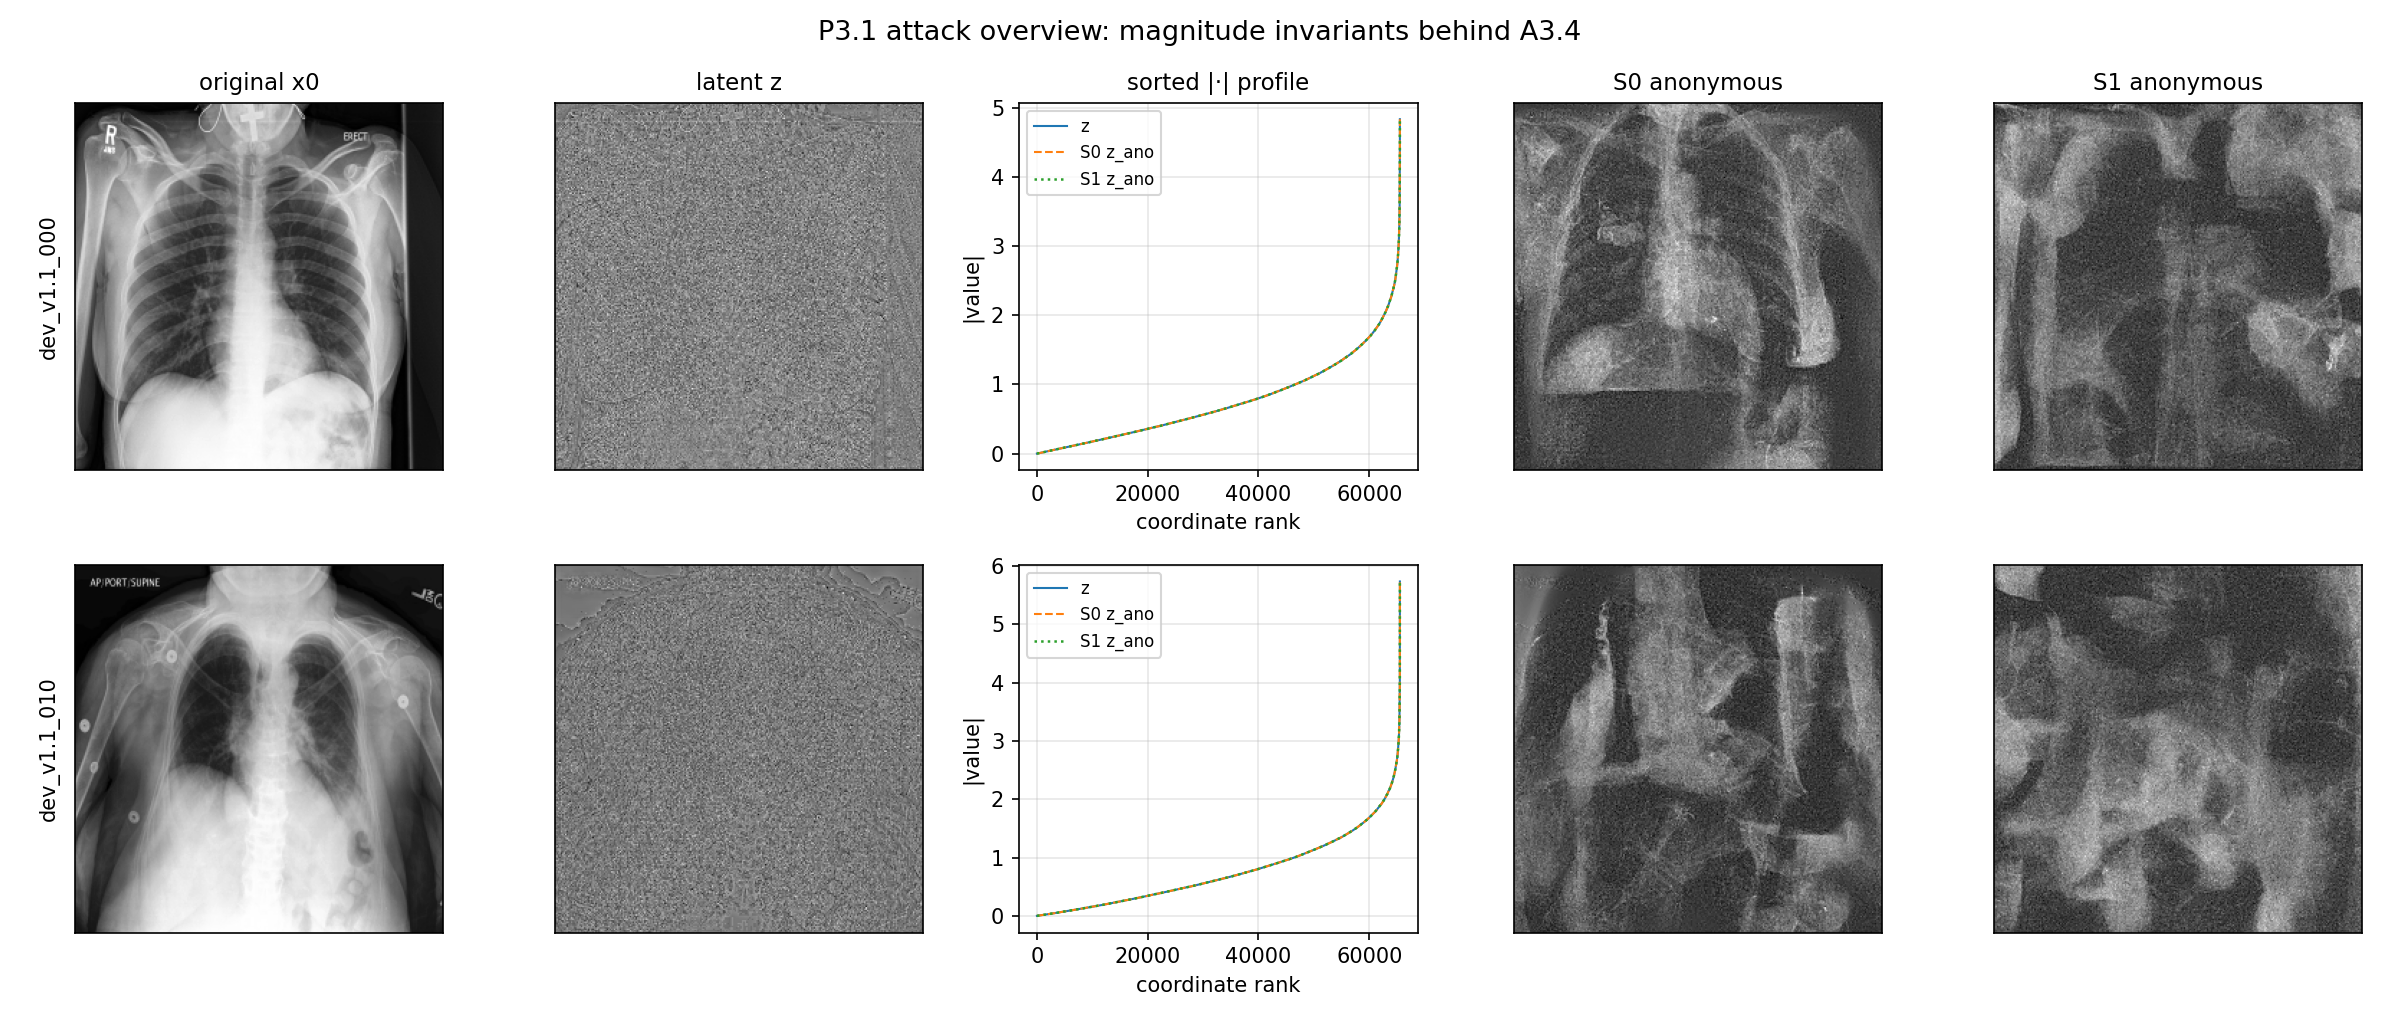
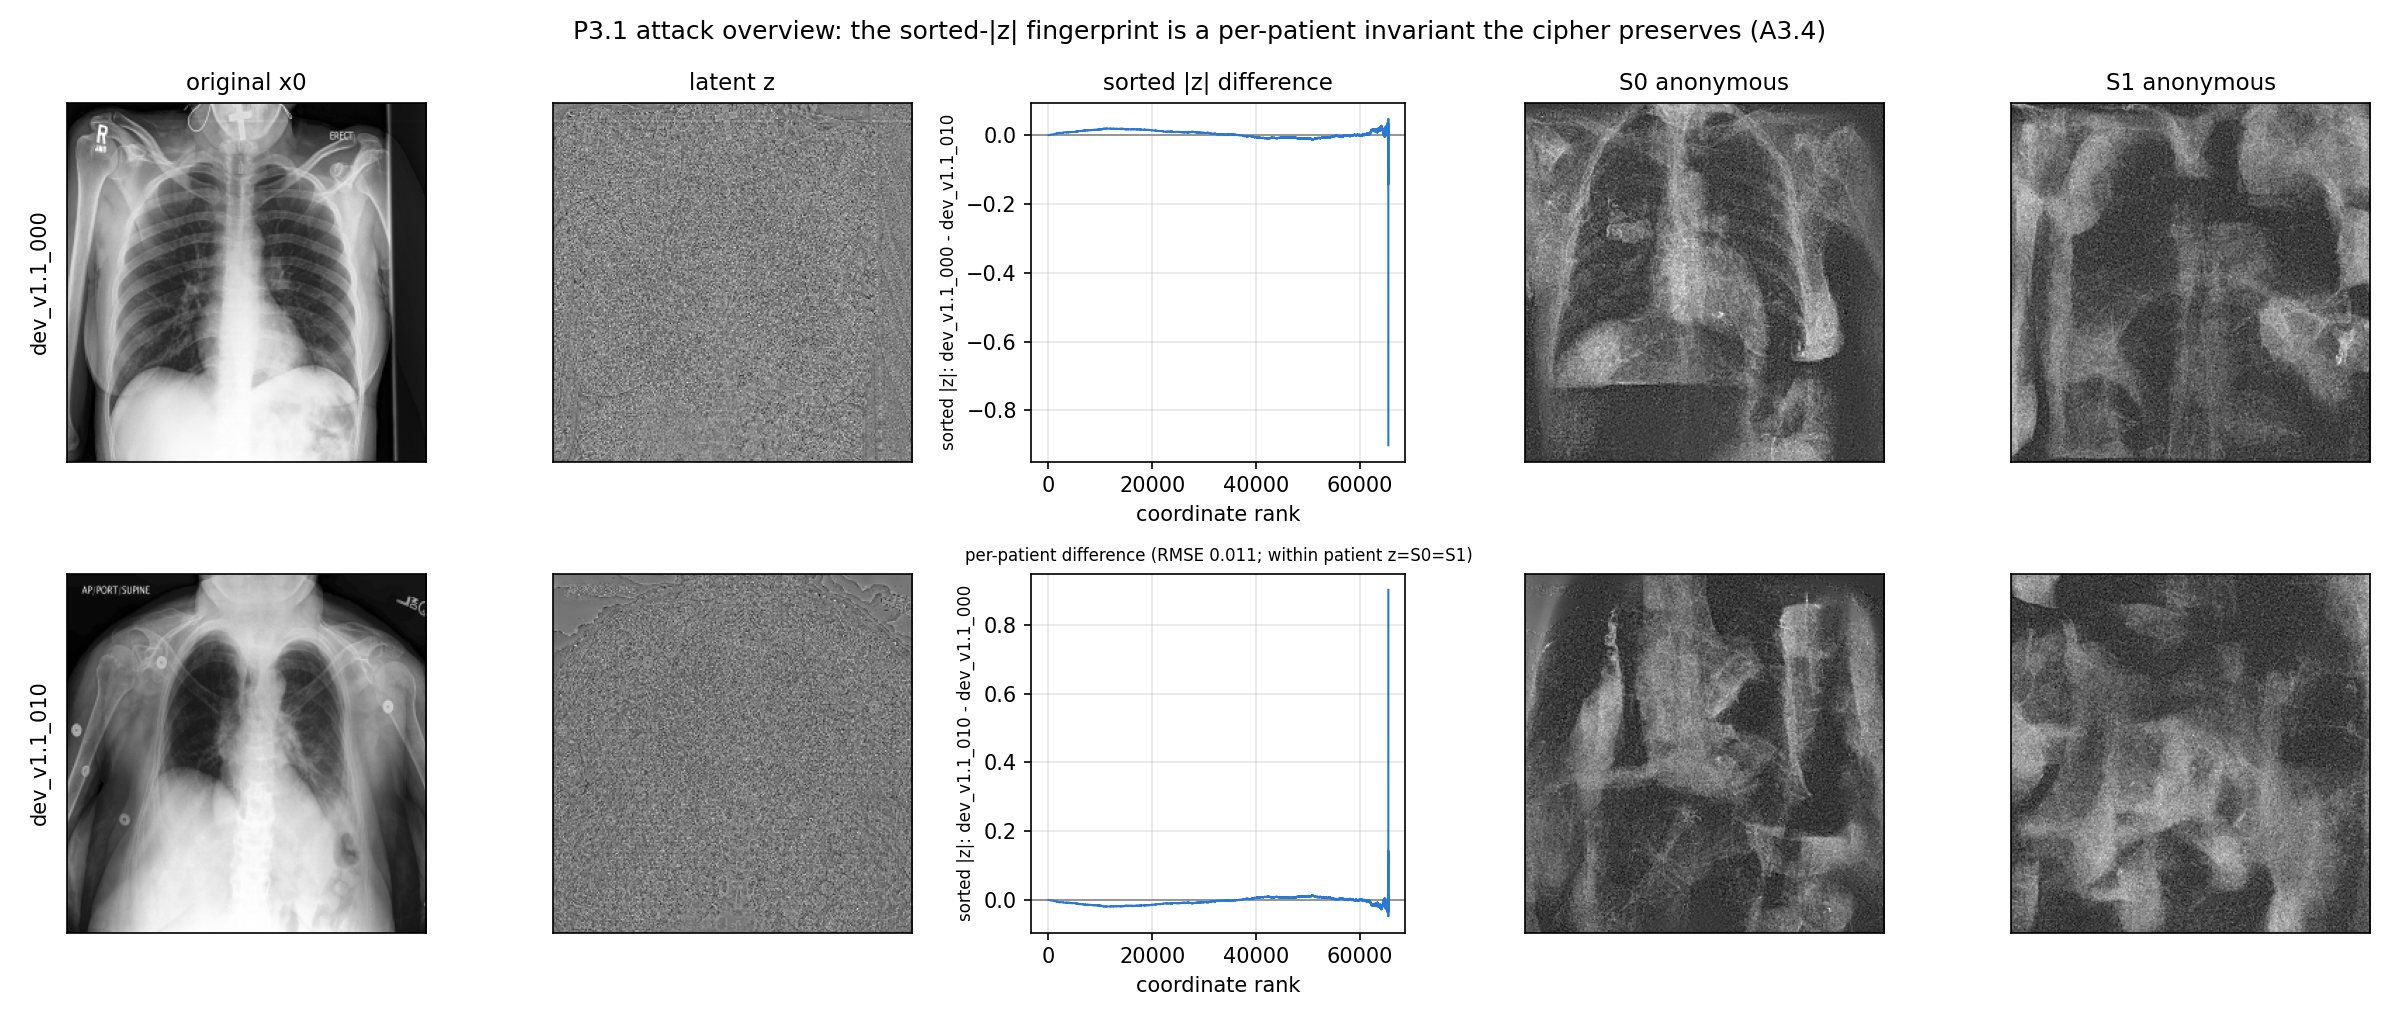
fix: [P3.1] show per-patient sorted-|z| difference (AF-028)
- 類型: 修復 Bug（圖示清晰度）
- 任務依據: AUD-20261011-01 AF-028 第 4 點（原圖只疊同一張圖的 z 與密文曲線，兩者本就相同，讀者無從理解特徵為何能分辨人）
- 變更檔案:
  - 修改: scripts/p3_attack_overview.py（profile 面板改畫兩位病人 sorted |z| 的逐 rank 差，標註 RMSE，並說明病人內 z=S0=S1 為精確不變量）
  - 修改: image/P3.1_attack_overview.png
- 驗證結果: managed run P3.1 succeeded、valid；差值面板顯示非零殘差（RMSE 0.011，集中於尾端），即 gallery scorer 用來區分病人的訊號；abs_equal_s0／sorted_abs_equal_s1 仍為 0
Refs: AF-028

diff --git a/scripts/p3_attack_overview.py b/scripts/p3_attack_overview.py
@@ -51,16 +51,25 @@ def build_figure(panels: list[dict], output: Path) -> None:
     fig, axes = plt.subplots(len(panels), 5, figsize=(16, 3.4 * len(panels)))
     if len(panels) == 1:
         axes = axes[None, :]
-    titles = ("original x0", "latent z", "sorted |·| profile", "S0 anonymous", "S1 anonymous")
+    titles = ("original x0", "latent z", "sorted |z| difference", "S0 anonymous", "S1 anonymous")
     for row, panel in enumerate(panels):
+        other = panels[1 - row]  # the other fixed case
         axes[row][0].imshow(_u8(panel["x0"]), cmap="gray")
         axes[row][1].imshow(panel["z"], cmap="gray")
         ax = axes[row][2]
-        ax.plot(panel["sorted_z"], label="z", linewidth=1.0)
-        ax.plot(panel["sorted_s0"], "--", label="S0 z_ano", linewidth=1.0)
-        ax.plot(panel["sorted_s1"], ":", label="S1 z_ano", linewidth=1.2)
-        ax.set_xlabel("coordinate rank"); ax.set_ylabel("|value|")
-        ax.legend(fontsize=8); ax.grid(True, alpha=0.3)
+        # Within one patient z, S0 z_ano and S1 z_ano share the same sorted |.|
+        # (exact invariant, A3.3), so the gallery scorer matches a query to its
+        # own image at distance 0. The linkage signal is the per-rank difference
+        # BETWEEN patients: small but non-zero, so every other gallery entry is
+        # farther away (AF-028).
+        diff = panel["sorted_z"] - other["sorted_z"]
+        ax.axhline(0.0, color="#898781", linewidth=0.8)
+        ax.plot(diff, color="#2a78d6", linewidth=1.0)
+        rmse = float(np.sqrt(np.mean(diff**2)))
+        ax.set_xlabel("coordinate rank")
+        ax.set_ylabel(f"sorted |z|: {panel['sample_id']} - {other['sample_id']}", fontsize=8)
+        ax.set_title(f"per-patient difference (RMSE {rmse:.3f}; within patient z=S0=S1)", fontsize=8)
+        ax.grid(True, alpha=0.3)
         axes[row][3].imshow(_u8(panel["s0_img"]), cmap="gray")
         axes[row][4].imshow(_u8(panel["s1_img"]), cmap="gray")
         for column in (0, 1, 3, 4):
@@ -69,7 +78,7 @@ def build_figure(panels: list[dict], output: Path) -> None:
         if row == 0:
             for column, title in enumerate(titles):
                 axes[row][column].set_title(title, fontsize=11)
-    fig.suptitle("P3.1 attack overview: magnitude invariants behind A3.4", fontsize=13)
+    fig.suptitle("P3.1 attack overview: the sorted-|z| fingerprint is a per-patient invariant the cipher preserves (A3.4)", fontsize=12)
     fig.tight_layout()
     output.parent.mkdir(parents=True, exist_ok=True)
     fig.savefig(output, dpi=150)
